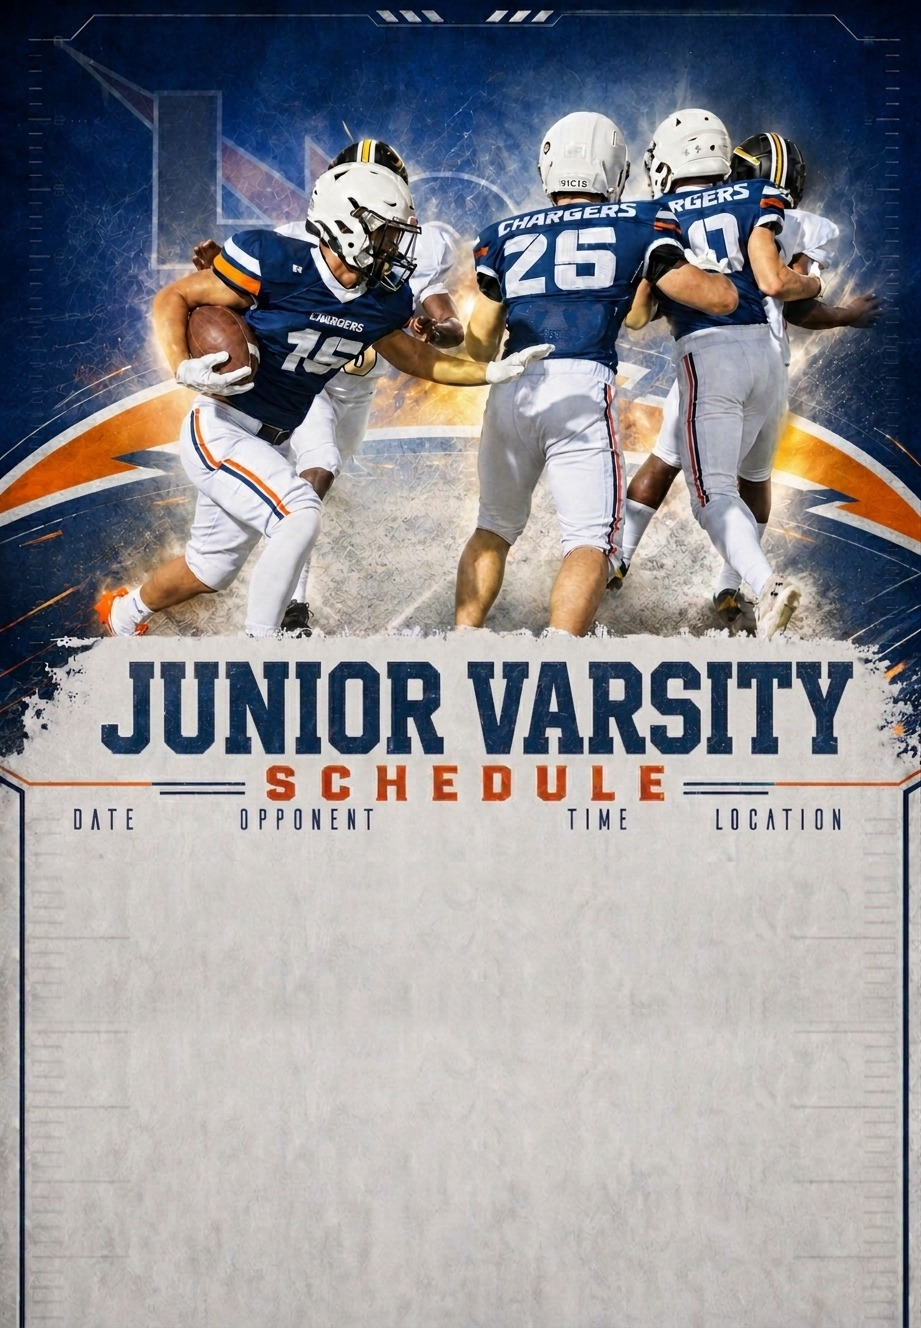
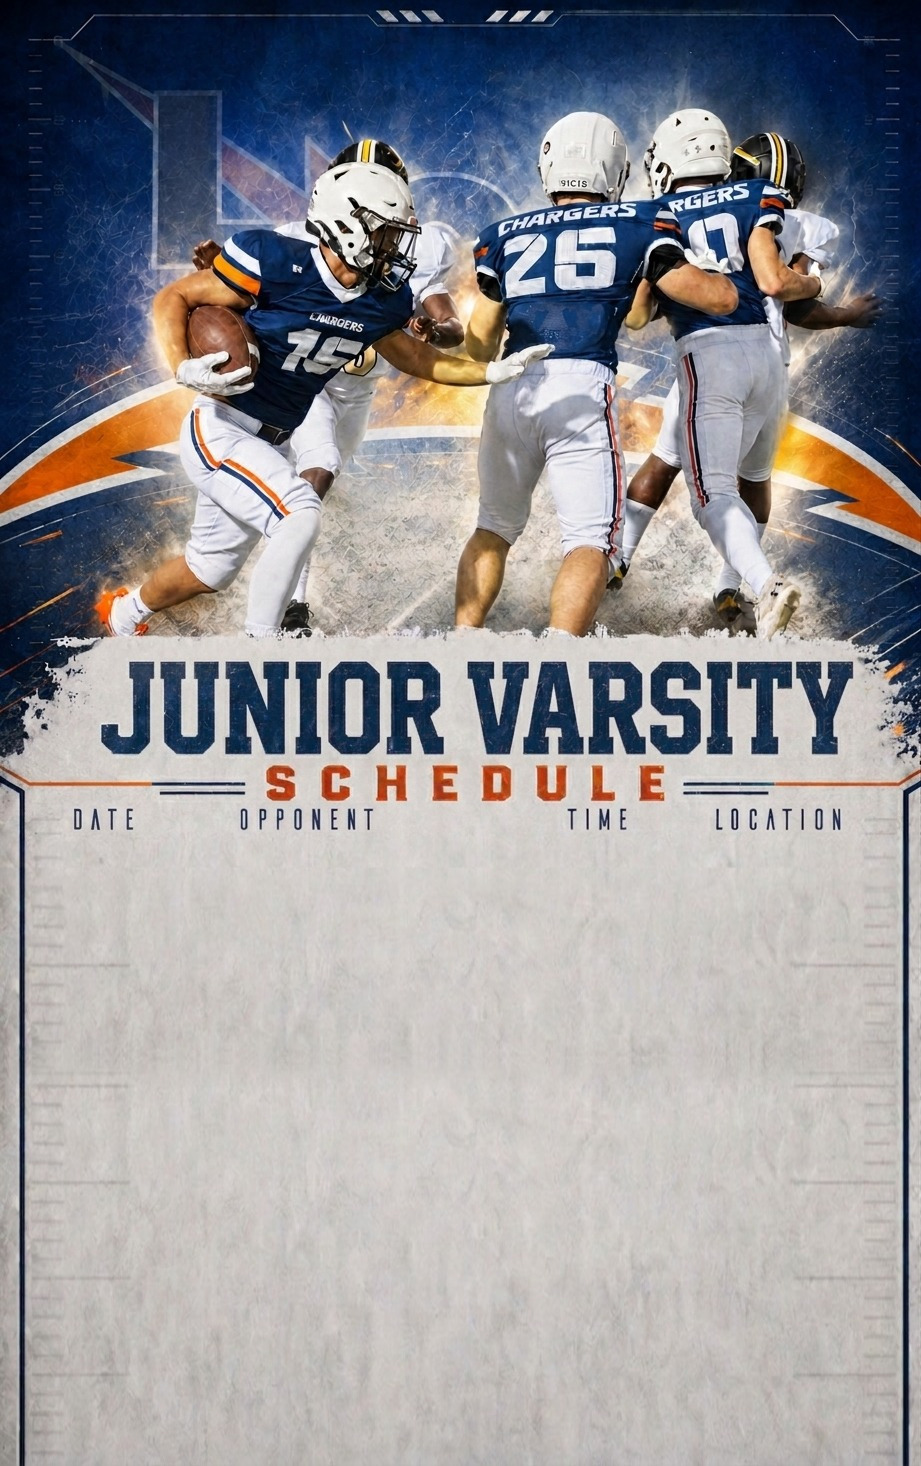
Add milestone callout CSS; resize schedule backgrounds for new rows
New ".chargers-champ-row"/"chargers-champ-*" classes in football.css
render the trophy/medal milestone callout (lcc_sportsengine's
schedule_overrides.yaml "milestones" section) - a floating icon beside
a wrapped, left-aligned opponent name with a small caption underneath.
Every span-level rule is a compound ".chargers-schedule-row .my-class"
selector (plus !important), the same pattern every other per-cell
override on this page already has to use to beat the base
".chargers-schedule-row span" rule's own specificity.

v_bg.jpeg/jv_bg.jpeg also grew (921x1284->921x1413, 921x1328->921x1466)
via lcc_sportsengine's resize_schedule_bg.py, to fit both teams'
current real row count (14/12) plus their two new, noticeably taller
milestone rows each - the matching top:/bottom:/record-top: percentage
rewrites are included in this same football.css change.

diff --git a/css/football.css b/css/football.css
@@ -169,6 +169,72 @@
   white-space: nowrap !important;
 }
 
+/* Milestone callout row (schedule_overrides.yaml's `milestones` section,
+   applied by schedule_builder.py and rendered by buildRow() in
+   2026-game-schedules.html) - a trophy/medal icon floating beside the
+   opponent's name, wrapping to multiple lines if needed, with a small
+   caption underneath. Every rule below targeting a <span> nested inside
+   .chargers-schedule-row is written as a COMPOUND selector
+   (".chargers-schedule-row .my-class") and kept !important - a bare
+   single class loses to the base ".chargers-schedule-row span" rule
+   just above (specificity (0,1,1)) even with !important on both sides,
+   since a plain class alone is only (0,1,0). Learned the hard way three
+   times already on this page (the postseason divider, the result
+   cells, the record ornament) - don't repeat it here. */
+.chargers-schedule-row.chargers-champ-row {
+  padding-top: 0.2em !important;
+  padding-bottom: 0.2em !important;
+}
+.chargers-schedule-row .chargers-champ-opp {
+  display: flex !important;
+  flex-direction: row !important;
+  align-items: center !important;
+  justify-content: center !important;
+  gap: 0.35em !important;
+  white-space: normal !important;
+}
+.chargers-schedule-row .chargers-champ-icon-wrap {
+  display: flex !important;
+  flex: 0 0 auto !important;
+  align-items: center !important;
+}
+/* Sizing only - the icon's actual color is baked directly into the
+   SVG's own path/circle fill attributes (TROPHY_SVG/MEDAL_SVG in
+   2026-game-schedules.html), not set here, because the flattened
+   share-image path rasterizes that same SVG markup as a standalone
+   image (via drawChampOpp()'s data: URI Image), which never picks up
+   this page's stylesheet. Baking the fill into the markup itself keeps
+   the live page and the exported image identical by construction
+   instead of needing two colors kept in sync by hand. */
+.chargers-trophy-icon {
+  width: 1.9em !important;
+  height: 1.9em !important;
+  display: block !important;
+}
+.chargers-schedule-row .chargers-champ-text-wrap {
+  display: flex !important;
+  flex-direction: column !important;
+  white-space: normal !important;
+  text-align: left !important;
+  line-height: 1.15 !important;
+  font-weight: bold !important;
+}
+.chargers-schedule-row .chargers-champ-text-gold {
+  color: #c9972c !important;
+}
+.chargers-schedule-row .chargers-champ-text-silver {
+  color: #8a94a6 !important;
+}
+.chargers-schedule-row .chargers-champ-caption {
+  display: block !important;
+  white-space: normal !important;
+  font-size: 0.68em !important;
+  text-transform: uppercase !important;
+  letter-spacing: 0.05em !important;
+  margin-top: 0.1em !important;
+  font-weight: bold !important;
+}
+
 /* ============================================================
    TUNER OUTPUT REGION - START
    Everything between here and TUNER OUTPUT REGION - END is
@@ -230,8 +296,8 @@
    .chargers-varsity-overlay {
      left: 7.5% !important;
      right: 3.5% !important;
-     top: 59.23% !important; /* 761px / 1284, via resize_schedule_bg.py */
-     bottom: 1.8% !important; /* 23px / 1284, via resize_schedule_bg.py */
+     top: 53.82% !important; /* 761px / 1413, via resize_schedule_bg.py */
+     bottom: 1.63% !important; /* 23px / 1413, via resize_schedule_bg.py */
      /* 2cqw, not the old 1.25vw: reaches the 18px ceiling exactly at
         900px of container width (18 / 900 * 100 = 2) - i.e. exactly
         when .chargers-card's own max-width caps it, instead of
@@ -247,8 +313,8 @@
    .chargers-jv-overlay {
      left: 7.5% !important;
      right: -0.5% !important;
-     top: 63.32% !important; /* 841px / 1328, via resize_schedule_bg.py */
-     bottom: 1.73% !important; /* 23px / 1328, via resize_schedule_bg.py */
+     top: 57.36% !important; /* 841px / 1466, via resize_schedule_bg.py */
+     bottom: 1.57% !important; /* 23px / 1466, via resize_schedule_bg.py */
      font-size: clamp(8px, 2cqw, 18px) !important;
      line-height: 1.5 !important;
    }
@@ -380,10 +446,10 @@
    re-deriving from the original 1152 measurement, same idea as the
    overlay top:/bottom: above.) */
 .chargers-record-varsity {
-  top: calc(42.42% - 1.02em) !important; /* 545px / 1284, via resize_schedule_bg.py */
+  top: calc(38.55% - 1.02em) !important; /* 545px / 1413, via resize_schedule_bg.py */
 }
 .chargers-record-jv {
-  top: calc(46.91% - 1.02em) !important; /* 623px / 1328, via resize_schedule_bg.py */
+  top: calc(42.49% - 1.02em) !important; /* 623px / 1466, via resize_schedule_bg.py */
 }
 .chargers-record-jh {
   top: calc(50.53% - 1.02em) !important; /* 619px / 1226, via resize_schedule_bg.py */
